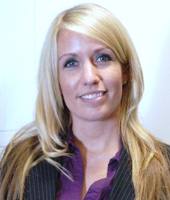
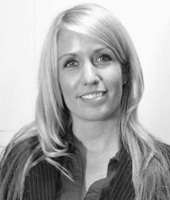
updated images of team to BW, tidied up calc

diff --git a/js/fade_icon.js b/js/fade_icon.js
@@ -1,6 +1,6 @@
 $(function() {
 // OPACITY OF BUTTON SET TO 50%
-$(".latest_img").css("opacity","0.5");
+$(".latest_img").css("opacity","0.8");
 		
 // ON MOUSE OVER
 $(".latest_img").hover(function () {
@@ -16,7 +16,7 @@ function () {
 			
 // SET OPACITY BACK TO 50%
 $(this).stop().animate({
-opacity: 0.5
+opacity: 0.8
 }, "slow");
 });
 });
@@ -24,7 +24,7 @@ opacity: 0.5
 
 $(function() {
 // OPACITY OF BUTTON SET TO 50%
-$("#text p").css("opacity","0.5");
+$("#text p").css("opacity","0.8");
 		
 // ON MOUSE OVER
 $("#text p").hover(function () {
@@ -40,7 +40,7 @@ function () {
 			
 // SET OPACITY BACK TO 50%
 $(this).stop().animate({
-opacity: 0.5
+opacity: 0.8
 }, "slow");
 });
 });
@@ -48,7 +48,7 @@ opacity: 0.5
 
 $(function() {
 // OPACITY OF BUTTON SET TO 50%
-$("#div").css("opacity","0.5");
+$("#div").css("opacity","0.8");
 		
 // ON MOUSE OVER
 $("#div").hover(function () {
@@ -64,7 +64,7 @@ function () {
 			
 // SET OPACITY BACK TO 50%
 $(this).stop().animate({
-opacity: 0.5
+opacity: 0.8
 }, "slow");
 });
 });

diff --git a/system/application/controllers/forms.php b/system/application/controllers/forms.php
@@ -291,15 +291,7 @@ End
 Start:Activity
 
 End
-Start:OpportunityDeliverIn an economic environment where the benefit of using financial structures to adopt technology are understood and demanded by both Senior Management at the Vendor and the Customer alike, it is often a sales force lacking in confidence in their financial skills that acts as a barrier to sale. 
-
-Proctor Consulting has vast experience in developing people and their financial skills.
-
-We will develop your senior sales teams to a standard where they are confident of presenting business cases and financial cases to key Financial Decision Makers
-
-Lease-Desk allows you to follow your sales teams development and identify those courses which actually increase your sale of products.
-
-Our ongoing development process means that you will always have the best Financial Products and your people will always have the skills to sell them.y
+Start:OpportunityDelivery
 
 End
 				

diff --git a/system/application/views/pages/lease_rate_calc.php b/system/application/views/pages/lease_rate_calc.php
@@ -1,5 +1,5 @@
 <?=$this->load->view('pages/dynamic')?>
-
+<?=$this->load->view('admin/table')?>
 <?=$this->load->view('pages/quote')?>
 
 <?php if(isset($calc_results)) {?>

diff --git a/system/application/views/pages/dynamic.php b/system/application/views/pages/dynamic.php
@@ -1,5 +1,3 @@
-
-
 <?php foreach($content as $row):?>
 
 <h1><?=$row['title'];?>
